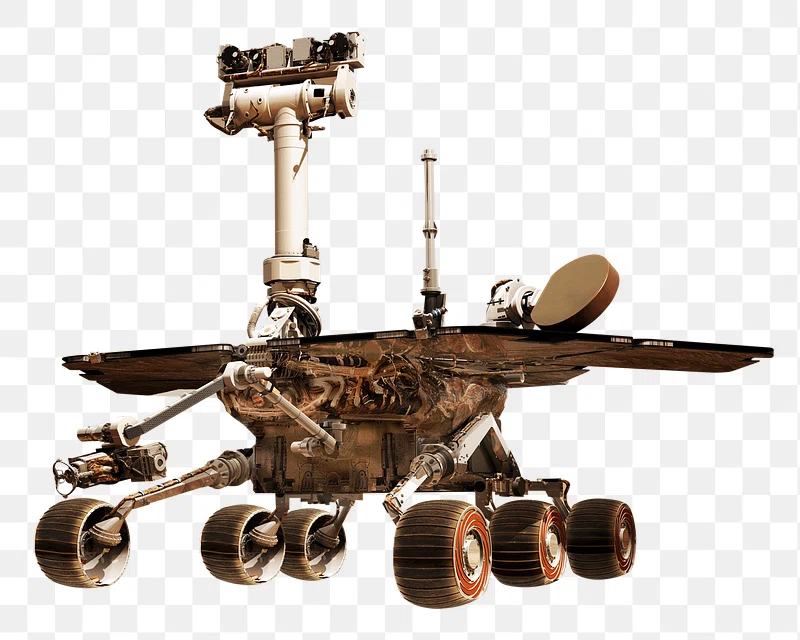
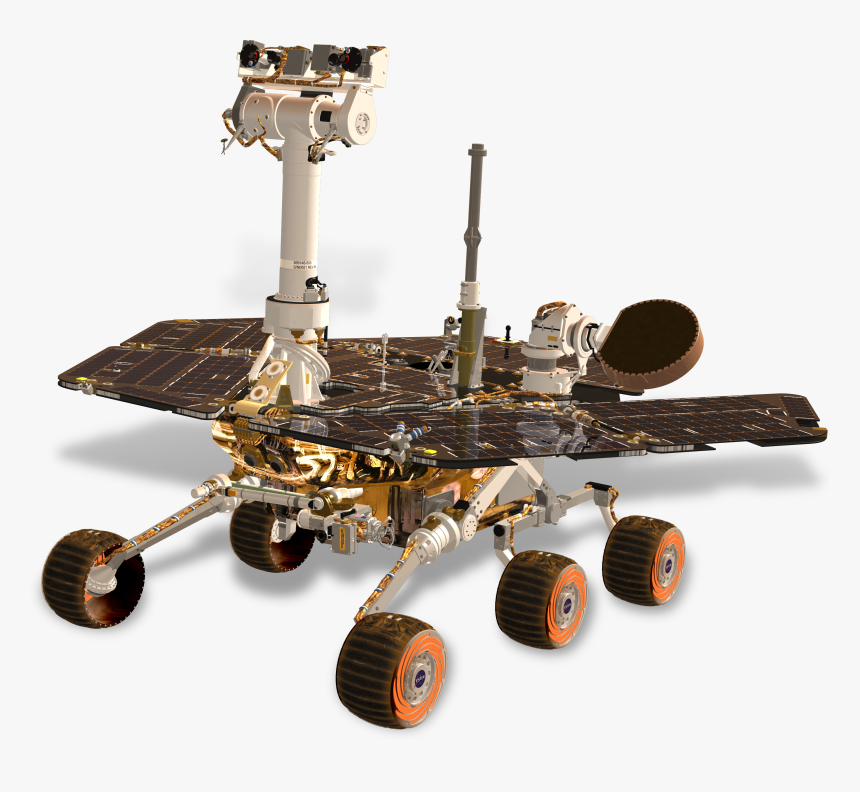
Commit:imagenes nuevas mejoradas añadidas a mars_rovers.dart

diff --git a/lib/bloc/ui/pages/mars_rovers.dart b/lib/bloc/ui/pages/mars_rovers.dart
@@ -9,17 +9,17 @@ import 'package:final_boss/bloc/widgets/item_card_rover.dart';
 class MarsRovers extends StatelessWidget {
   final List<ItemRover> rovers = [
     ItemRover(
-      imagePath: 'assets/imagenes/i_rovers_menu/curiosity_menu.png', // Asegúrate de tener esta imagen en tu carpeta de assets
+      imagePath: 'assets/imagenes/i_rovers_menu/curiosity_real_menu.jpg', // Asegúrate de tener esta imagen en tu carpeta de assets
       name: 'Curiosity',
       destinationPage: CuriosityPage(), // Widget de la página de destino para Curiosity
     ),
     ItemRover(
-      imagePath: 'assets/imagenes/i_rovers_menu/opportunity_menu.png', // Asegúrate de tener esta imagen en tu carpeta de assets
+      imagePath: 'assets/imagenes/i_rovers_menu/opportunity_real_menu.jpg', // Asegúrate de tener esta imagen en tu carpeta de assets
       name: 'Opportunity',
       destinationPage: OpportunityPage(), // Widget de la página de destino para Opportunity
     ),
     ItemRover(
-      imagePath: 'assets/imagenes/i_rovers_menu/spirit_menu.png', // Asegúrate de tener esta imagen en tu carpeta de assets
+      imagePath: 'assets/imagenes/i_rovers_menu/spirit_real_menu.jpg', // Asegúrate de tener esta imagen en tu carpeta de assets
       name: 'Spirit',
       destinationPage: SpiritPage(), // Widget de la página de destino para Spirit
     ),

diff --git a/lib/bloc/ui/pages/rovers/opportunity/inf_opportunity.dart b/lib/bloc/ui/pages/rovers/opportunity/inf_opportunity.dart
@@ -27,7 +27,7 @@ class InformationOpportunity extends StatelessWidget {
               padding: const EdgeInsets.all(8.0),
               child: Center(
                 child: Image.asset(
-                  'assets/opportunity.jpg', // Asegúrate de tener esta imagen en tus assets
+                  'assets/imagenes/i_rovers_menu/opportunity_menu.png', // Asegúrate de tener esta imagen en tus assets
                   fit: BoxFit.cover,
                 ),
               ),

diff --git a/lib/bloc/ui/pages/rovers/curiosity/inf_curiosity.dart b/lib/bloc/ui/pages/rovers/curiosity/inf_curiosity.dart
@@ -29,7 +29,7 @@ class InformationCuriosity extends StatelessWidget {
               padding: const EdgeInsets.all(8.0),
               child: Center(
                 child: Image.asset(
-                  'assets/opportunity.jpg', // Asegúrate de tener esta imagen en tus assets
+                  'assets/imagenes/i_rovers_menu/curiosity_menu.png', // Asegúrate de tener esta imagen en tus assets
                   fit: BoxFit.cover,
                 ),
               ),

diff --git a/lib/bloc/ui/pages/rovers/spirit/inf_spirit.dart b/lib/bloc/ui/pages/rovers/spirit/inf_spirit.dart
@@ -27,7 +27,7 @@ class InformationSpirit extends StatelessWidget {
               padding: const EdgeInsets.all(8.0),
               child: Center(
                 child: Image.asset(
-                  'assets/opportunity.jpg', // Asegúrate de tener esta imagen en tus assets
+                  'assets/imagenes/i_rovers_menu/spirit_menu.png', // Asegúrate de tener esta imagen en tus assets
                   fit: BoxFit.cover,
                 ),
               ),
